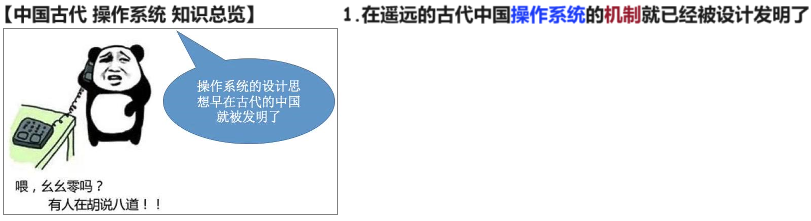
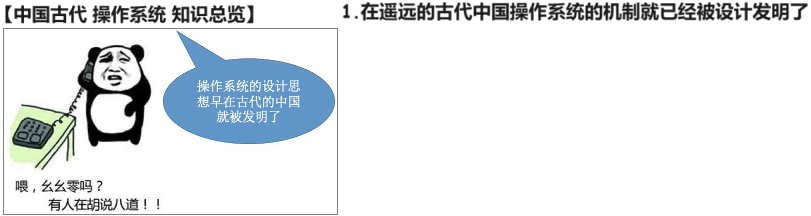
240605

diff --git a/01 初试/01 OS/02 24 25 王道/01 基础/01 计算机系统 概述/03 操作系统 运行环境/04 番外篇 中国古代 操作系统 240605/02 消化/02 Doc.md b/01 初试/01 OS/02 24 25 王道/01 基础/01 计算机系统 概述/03 操作系统 运行环境/04 番外篇 中国古代 操作系统 240605/02 消化/02 Doc.md
@@ -4,8 +4,8 @@
 
 # 01 中国古代 操作系统 知识总览
 
-<img src="https://cvp.oss-cn-shanghai.aliyuncs.com/picgo/202405181439385.png" alt="image-20240518143929307" style="zoom:50%;" />
+<img src="https://cvp.oss-cn-shanghai.aliyuncs.com/picgo/202406051737509.png" alt="image-20240605173743455" style="zoom:50%;" />
 
 # 02 操作系统 运行机制
 
-<img src="https://cvp.oss-cn-shanghai.aliyuncs.com/picgo/202405181508609.png" alt="image-20240518150830275" style="zoom:50%;" />
+<img src="https://cvp.oss-cn-shanghai.aliyuncs.com/picgo/202406051751691.png" alt="image-20240605175133384" style="zoom:50%;" />
